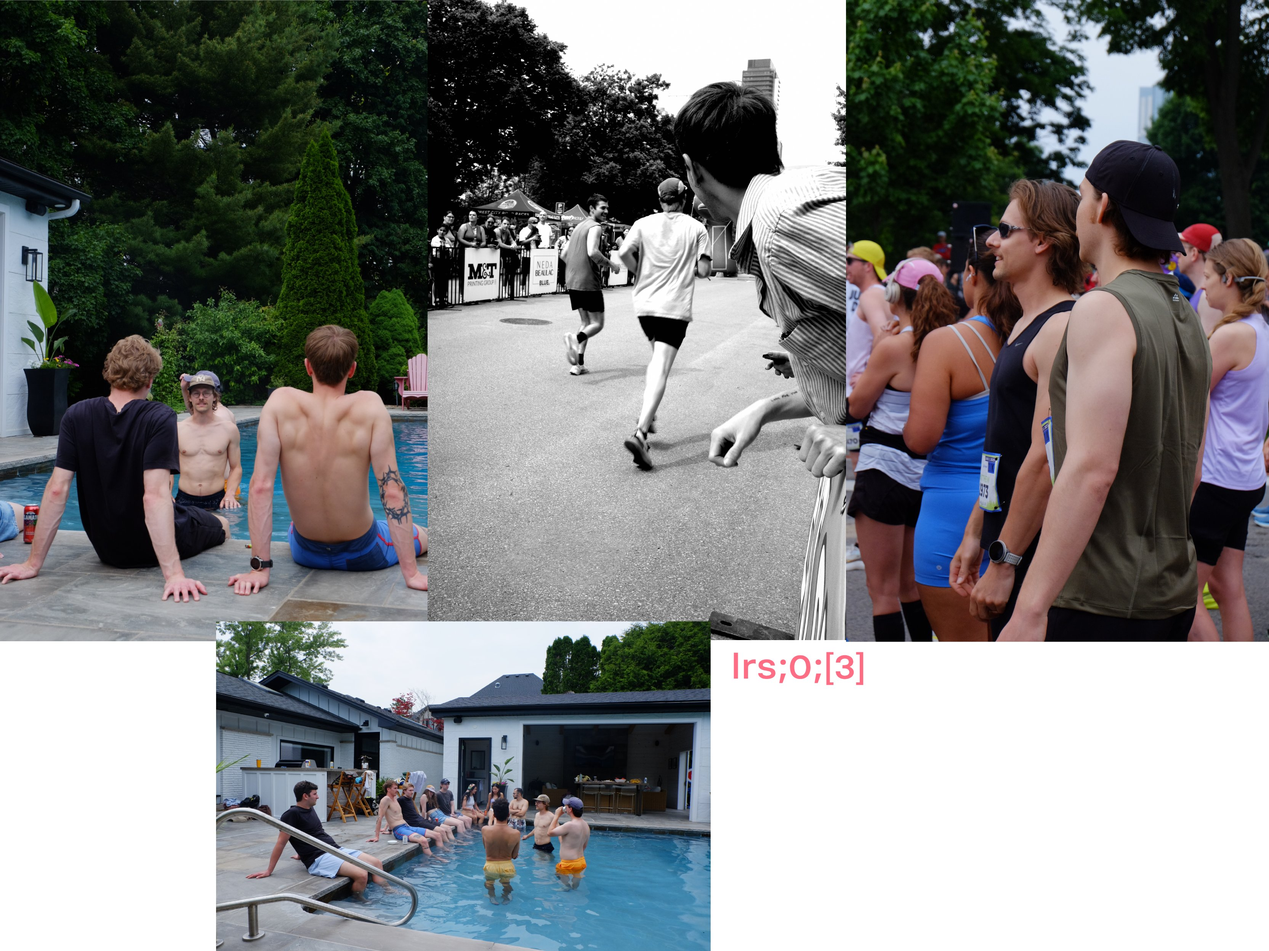
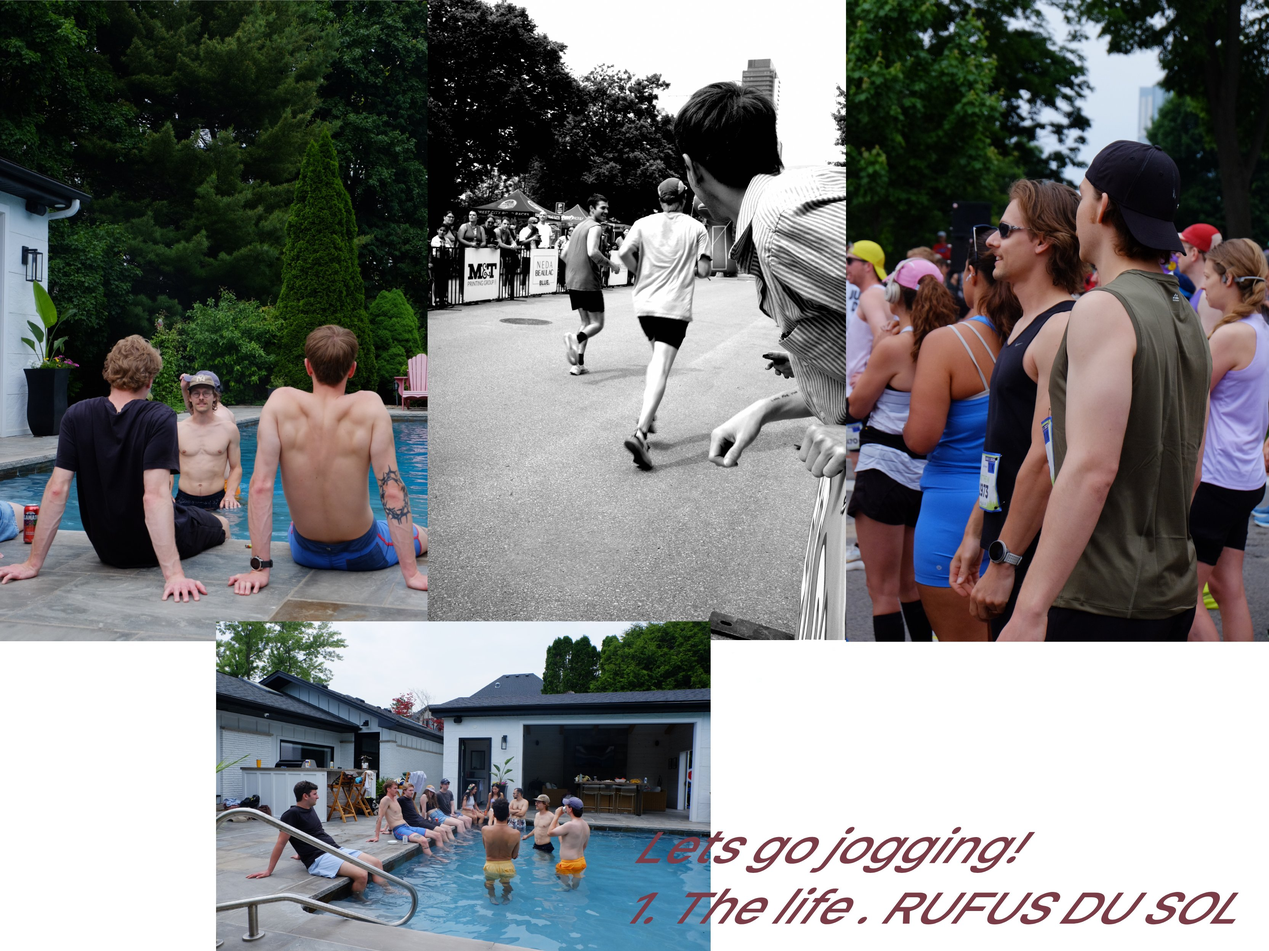
try 1

Changed region(s): [[0.4997, 0.875, 0.9682, 0.9688], [0.5622, 0.6875, 0.6871, 0.7188]]

diff --git a/src/app/Stuff/W4/page.tsx b/src/app/Stuff/W4/page.tsx
@@ -4,11 +4,28 @@ export default function W3() {
   return (
     <main className="flex w-full">
       <div className="flex w-full max-w-[2100px] flex-col space-y-6">
-        <p className="text-xl leading-relaxed">Week 4 Coming Soon</p>
+        <p className="text-xl leading-relaxed">Week 4 *smile* </p>
 
+        <p className="text-xl leading-relaxed"> TIME IS THE MOST VALUABLE CURRENCY. I CAN PROVE IT.
+        </p>
+
+        <p className="text-xl leading-relaxed">This week i learned how to plan 
+          for busy times and prepare for things. when approaching a layered timeline, i need to 
+          make notes of items i should remember |like a bike helmet or my painting kit| and not rush to the scene. everything takes TIME, and should honour each step of the process if i know what i am approaching will be large. 
+        </p>
         
+        time on the bike
+        <p> <img src="/images/W4/DSCF7134.jpg" alt="Description of Image6"></img></p>
+        
+        
+        <p className="text-xl leading-relaxed"> Expected time 1:00:00 Gotten Time 1:01:15, 1 minute 15 seconds of time to realize we want to do this again.
+          1 hour 1 minute 15 seconds of joggin with my firend Sam. PRICELESS.
+        </p>
+
+        <p> <img src="/images/W4/DSCF7154.jpg" alt="Description of Image6"></img></p>
+
+
         <p> <img src="/images/W4/solarwind_project.jpg" alt="Description of Image6"></img></p>
-        
         <p className="text-xl leading-relaxed"> 06.12.2025 EK </p>
       </div>
     </main>
